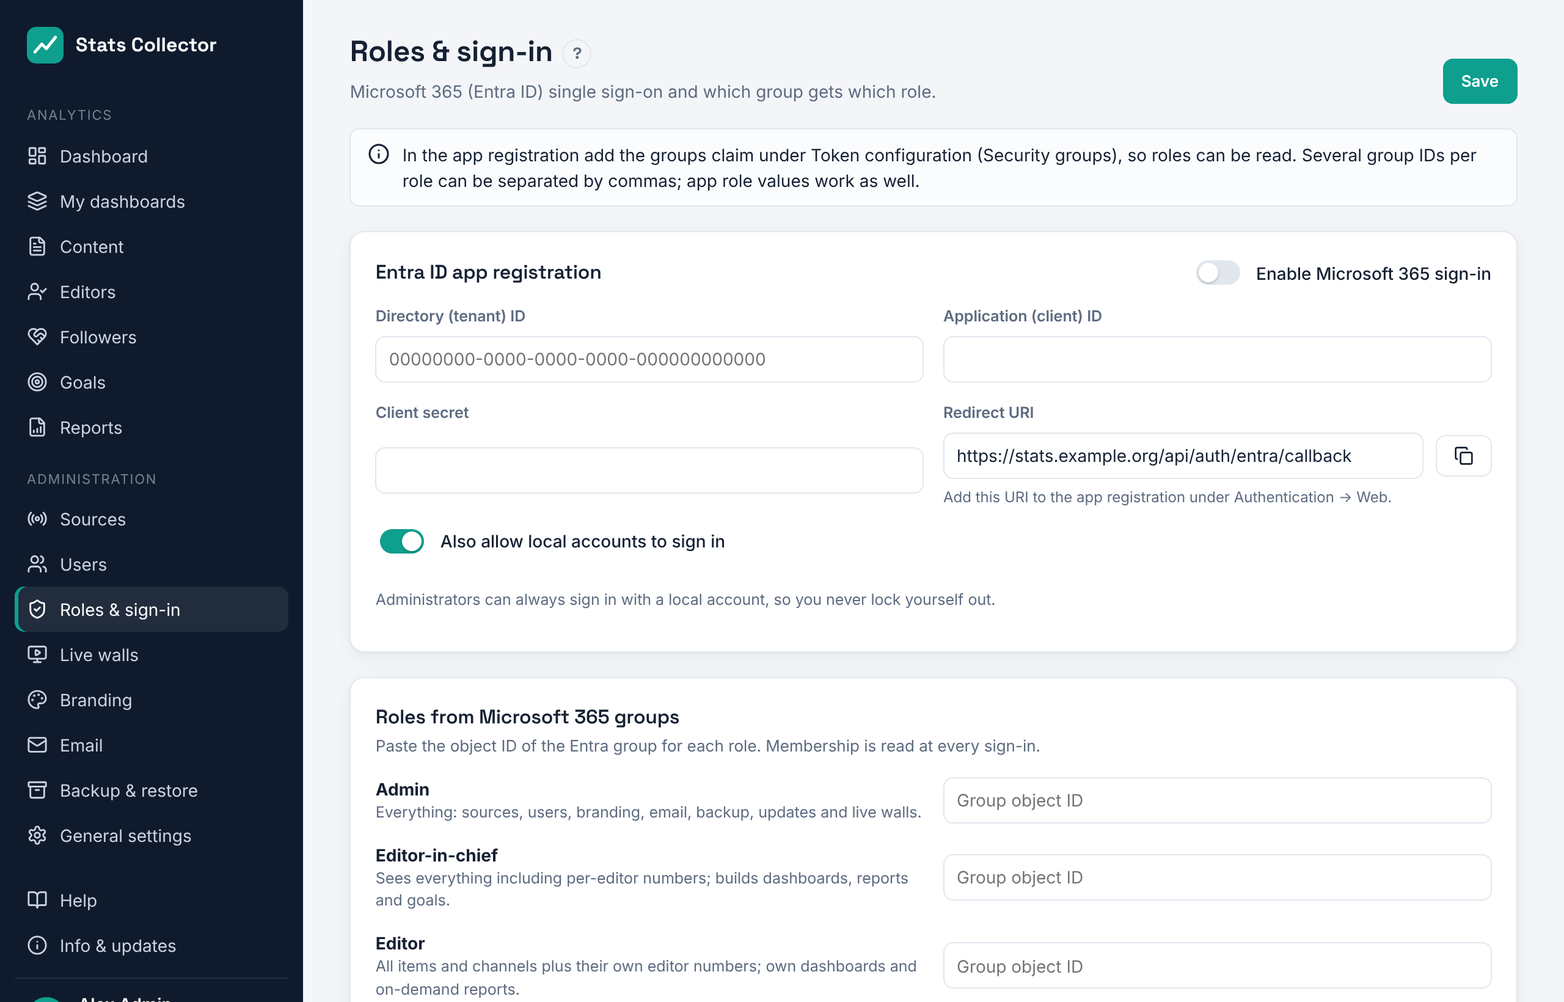
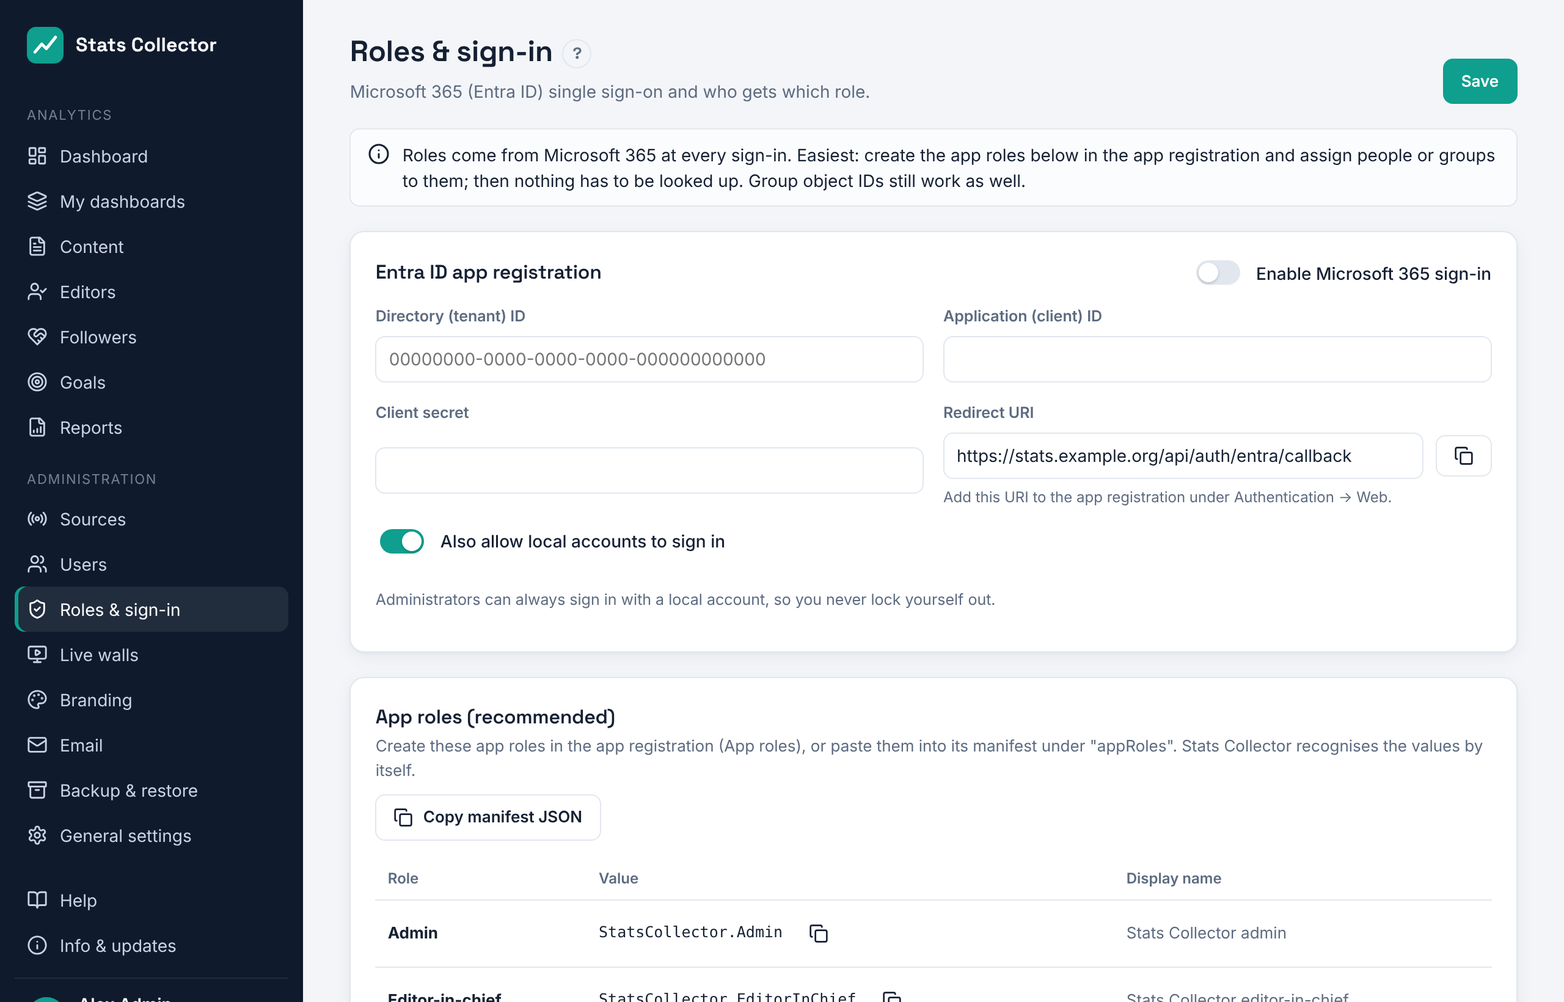
Roles & sign-in: Microsoft 365 roles through app roles [test-release] (#24)
* Manual: keep only the newest test version on GitHub Pages

Every test release added a full copy of the manual with all screenshots
(135 MB in total), and the Pages deploy began to time out. Older test
versions are now removed after each test release, and Help in a test
build opens the shared 'test' manual.

Claude-Session: https://claude.ai/code/session_01CnJtxGQE4H4TT3kRd5mhnL

* Manual: say how the online test manual is kept

Claude-Session: https://claude.ai/code/session_01CnJtxGQE4H4TT3kRd5mhnL

* Phase 4: reports, PDF, schedules and Graph mail

- Report builder from blocks (totals, charts, top content, editors,
  goals, text), runs frozen per period with an expiring public link
- PDF from the same page through Playwright and the system Chromium
- Daily, weekly and monthly schedules with users and email recipients
- Mail through Microsoft Graph with SMTP as fallback
- Archive of every run; manual EN/NL with screenshots

Claude-Session: https://claude.ai/code/session_01CnJtxGQE4H4TT3kRd5mhnL

* Roles & sign-in: Microsoft 365 roles through app roles

Fixed app role values (StatsCollector.Admin, .EditorInChief, .Editor,
.Staff) are recognised from the roles claim without any mapping. The
page lists them with copy buttons and copies the manifest JSON. Group
object IDs keep working.

Claude-Session: https://claude.ai/code/session_01CnJtxGQE4H4TT3kRd5mhnL

* CHANGELOG: app roles

Claude-Session: https://claude.ai/code/session_01CnJtxGQE4H4TT3kRd5mhnL

---------

diff --git a/frontend/src/pages/Sso.tsx b/frontend/src/pages/Sso.tsx
@@ -9,6 +9,10 @@ import { Alert, Card, Field, PageHead, Switch, useLoad } from "../components/ui"
 interface Sso {
   enabled: boolean; tenant_id: string; client_id: string; client_secret_set: boolean; allow_local_login: boolean;
   group_roles: Record<Role, string>; default_role: Role; redirect_uri: string;
+  app_roles: AppRole[];
+}
+interface AppRole {
+  role: Role; allowedMemberTypes: string[]; description: string; displayName: string; id: string; isEnabled: boolean; value: string;
 }
 const ROLES: Role[] = ["admin", "editor_in_chief", "editor", "staff"];
 
@@ -25,10 +29,16 @@ export default function SsoPage() {
     e.preventDefault();
     try {
       const r = await api.put<Sso>("/api/settings/sso", { ...cfg, client_secret: secret || undefined });
-      setCfg({ ...r, redirect_uri: cfg.redirect_uri }); setSecret("");
+      setCfg({ ...r, redirect_uri: cfg.redirect_uri, app_roles: cfg.app_roles }); setSecret("");
       toast("success", t("common.saved"));
     } catch (err) { toast("error", errorText(err instanceof ApiError ? err.detail : String(err))); }
   };
+
+  const copy = (text: string) => {
+    navigator.clipboard?.writeText(text).then(() => toast("success", t("common.copied")), () => undefined);
+  };
+  // The manifest's appRoles entries, without our own role key.
+  const manifest = JSON.stringify(cfg.app_roles.map(({ role: _role, ...rest }) => rest), null, 2);
 
   return (
     <form className="page" onSubmit={save}>
@@ -51,6 +61,31 @@ export default function SsoPage() {
           </div>
           <Switch checked={cfg.allow_local_login} onChange={(v) => setCfg({ ...cfg, allow_local_login: v })} label={t("sso.allowLocal")} />
           <p className="muted small">{t("sso.breakGlass")}</p>
+        </div>
+      </Card>
+      <Card title={t("sso.appRoles")} subtitle={t("sso.appRolesIntro")}
+        actions={<button type="button" className="btn secondary" onClick={() => copy(manifest)}><Copy /> {t("sso.copyManifest")}</button>}>
+        <div className="stack">
+          <div className="table-wrap">
+            <table>
+              <thead><tr><th>{t("sso.role")}</th><th>{t("sso.appRoleValue")}</th><th>{t("sso.appRoleName")}</th></tr></thead>
+              <tbody>
+                {cfg.app_roles.map((a) => (
+                  <tr key={a.role}>
+                    <td><b>{t(`roles.${a.role}`)}</b></td>
+                    <td>
+                      <span className="row" style={{ flexWrap: "nowrap", gap: 6 }}>
+                        <code>{a.value}</code>
+                        <button type="button" className="btn ghost" onClick={() => copy(a.value)} aria-label={t("common.copy")}><Copy /></button>
+                      </span>
+                    </td>
+                    <td className="muted">{a.displayName}</td>
+                  </tr>
+                ))}
+              </tbody>
+            </table>
+          </div>
+          <p className="muted small">{t("sso.appRolesAssign")}</p>
         </div>
       </Card>
       <Card title={t("sso.groups")} subtitle={t("sso.groupsIntro")}>

diff --git a/backend/stats_collector/services/entra.py b/backend/stats_collector/services/entra.py
@@ -1,9 +1,11 @@
 """Sign-in with Microsoft 365 (Entra ID) via OpenID Connect: authorization code flow with PKCE.
 
-Roles come from Microsoft 365: Settings → Microsoft 365 maps Entra group object IDs (or app role
-values) to the app roles; membership is read at every sign-in, so changing a group in Microsoft
-365 changes the role. When a user is in more than ~200 groups Entra leaves the `groups` claim out
-("group overage"); the groups are then read from Microsoft Graph with the user's token.
+Roles come from Microsoft 365, read at every sign-in. The simplest way is app roles: the app
+registration defines the roles in APP_ROLES (fixed values, so nothing has to be looked up) and
+users or groups are assigned to them; Entra puts the values in the `roles` claim. Entra group
+object IDs (or other app role values) can also be mapped per role under Roles & sign-in.
+When a user is in more than ~200 groups Entra leaves the `groups` claim out ("group overage");
+the groups are then read from Microsoft Graph with the user's token.
 """
 
 from __future__ import annotations
@@ -13,6 +15,7 @@ import hashlib
 import re
 import secrets
 import time
+import uuid
 from typing import Any
 
 import httpx
@@ -24,6 +27,36 @@ SCOPES = "openid profile email User.Read"
 LOGIN_HOST = "https://login.microsoftonline.com"
 GRAPH = "https://graph.microsoft.com/v1.0"
 _GUID = re.compile(r"^[0-9a-f]{8}-[0-9a-f]{4}-[0-9a-f]{4}-[0-9a-f]{4}-[0-9a-f]{12}$", re.I)
+
+# The app roles to create in the app registration. The values are what Entra sends in the `roles`
+# claim; the ids are fixed so that pasting the manifest twice does not create duplicates.
+APP_ROLES = {
+    "admin": ("StatsCollector.Admin", "Stats Collector admin", "Everything, including settings and users."),
+    "editor_in_chief": (
+        "StatsCollector.EditorInChief",
+        "Stats Collector editor-in-chief",
+        "All numbers including per editor; dashboards, reports and goals.",
+    ),
+    "editor": ("StatsCollector.Editor", "Stats Collector editor", "All numbers plus their own editor numbers."),
+    "staff": ("StatsCollector.Staff", "Stats Collector staff", "Views numbers without editor names."),
+}
+
+
+def app_roles() -> list[dict]:
+    """The app roles in the shape of the app registration manifest (`appRoles`), plus our role key."""
+    return [
+        {
+            "role": role,
+            "allowedMemberTypes": ["User"],
+            "description": description,
+            "displayName": name,
+            "id": str(uuid.uuid5(uuid.NAMESPACE_URL, f"https://stats-collector/app-role/{role}")),
+            "isEnabled": True,
+            "value": value,
+        }
+        for role, (value, name, description) in APP_ROLES.items()
+    ]
+
 
 _discovery_cache: dict[str, tuple[float, dict]] = {}
 _jwks_clients: dict[str, jwt.PyJWKClient] = {}
@@ -160,11 +193,15 @@ def group_ids(claims: dict, access_token: str | None) -> list[str]:
 
 
 def resolve_role(cfg: dict, groups: list[str], app_roles: list[str]) -> str:
-    """Highest mapped role wins (Admin > Editor-in-chief > Editor > Staff); otherwise the default role."""
+    """Highest role wins (Admin > Editor-in-chief > Editor > Staff); otherwise the default role.
+
+    A role is matched by its fixed app role value (APP_ROLES) or by a group ID or value mapped to it.
+    """
     have = {g.lower() for g in groups} | {r.lower() for r in app_roles}
     mapping: dict[str, Any] = cfg.get("group_roles") or {}
     for role in ROLES:
         wanted = [w.strip().lower() for w in re.split(r"[,\s;]+", str(mapping.get(role) or "")) if w.strip()]
+        wanted.append(APP_ROLES[role][0].lower())
         if any(w in have for w in wanted):
             return role
     default = cfg.get("default_role") or "staff"

diff --git a/backend/tests/test_entra.py b/backend/tests/test_entra.py
@@ -129,6 +129,12 @@ def test_resolve_role():
     assert entra.resolve_role(cfg, ["E", "B"], []) == "admin"
     assert entra.resolve_role(cfg, [], ["E"]) == "editor"
     assert entra.resolve_role(cfg, ["x"], []) == "staff"
+    # The fixed app role values work without any mapping; the highest one wins.
+    assert entra.resolve_role({}, [], ["StatsCollector.Editor"]) == "editor"
+    assert entra.resolve_role({}, [], ["statscollector.editor", "StatsCollector.EditorInChief"]) == "editor_in_chief"
+    assert entra.resolve_role(cfg, ["E"], ["StatsCollector.Admin"]) == "admin"
+    roles = entra.app_roles()
+    assert [r["value"] for r in roles][0] == "StatsCollector.Admin" and len({r["id"] for r in roles}) == 4
 
 
 def test_proxy_headers():

diff --git a/backend/stats_collector/api/settings.py b/backend/stats_collector/api/settings.py
@@ -15,7 +15,7 @@ from ..config import get_settings
 from ..db import get_db
 from ..models import User
 from ..security import current_user, encrypt_secret, require_admin
-from ..services import mail, settings_store
+from ..services import entra, mail, settings_store
 from .common import audit
 
 router = APIRouter(prefix="/api/settings", tags=["settings"])
@@ -136,6 +136,7 @@ class SsoIn(BaseModel):
 def get_sso(db: Session = Depends(get_db), _=Depends(require_admin)) -> dict:
     value = settings_store.public_view("sso", settings_store.get_section(db, "sso"))
     value["redirect_uri"] = get_settings().public_url.rstrip("/") + "/api/auth/entra/callback"
+    value["app_roles"] = entra.app_roles()
     return value
 
 

diff --git a/docs/manual/nl/microsoft-365.md b/docs/manual/nl/microsoft-365.md
@@ -1,6 +1,6 @@
 # Microsoft 365 (Entra ID)
 
-Collega's loggen in met hun Microsoft 365-account (knop **Inloggen met Microsoft 365** op de inlogpagina) en krijgen hun rol uit een Microsoft 365-groep. Je stelt dit in onder **Beheer → Rollen & inloggen**.
+Collega's loggen in met hun Microsoft 365-account (knop **Inloggen met Microsoft 365** op de inlogpagina) en krijgen hun rol uit Microsoft 365: uit een app-rol (het makkelijkst) of uit een groep. Je stelt dit in onder **Beheer → Rollen & inloggen**.
 
 ![Rollen & inloggen](../images/nl-sso.png)
 
@@ -11,27 +11,38 @@ Collega's loggen in met hun Microsoft 365-account (knop **Inloggen met Microsoft
 3. Omleidings-URI: platform **Web**, waarde: kopieer die uit **Rollen & inloggen → Omleidings-URI** in Stats Collector (zoiets als `https://stats.example.org/api/auth/entra/callback`).
 4. Klik op **Registreren**. Kopieer de **Applicatie-ID (client)** en **Directory-ID (tenant)** naar Stats Collector.
 5. **Certificaten en geheimen → Nieuw clientgeheim**, 24 maanden geldig. Kopieer de *Waarde* (niet de ID) naar **Clientgeheim**. Zet een herinnering in je agenda om het op tijd te vernieuwen.
-6. **Tokenconfiguratie → Groepsclaim toevoegen → Beveiligingsgroepen**, voor het *ID*-token, formaat *Groeps-ID*.
+6. Alleen als je groepen gebruikt in plaats van app-rollen (zie 2b): **Tokenconfiguratie → Groepsclaim toevoegen → Beveiligingsgroepen**, voor het *ID*-token, formaat *Groeps-ID*.
 7. **API-machtigingen**: `openid`, `profile`, `email` en `User.Read` (gedelegeerd) zijn genoeg. Klik op **Beheerderstoestemming verlenen**.
 
-## 2. Groepen voor rollen
+## 2. Rollen
 
-Maak vier beveiligingsgroepen in Microsoft 365 (de namen zijn een voorbeeld):
+### 2a. App-rollen (aanbevolen)
 
-| Rol | Groep |
-| --- | --- |
-| Beheerder | `SC-Admins` |
-| Hoofdredacteur | `SC-EditorsInChief` |
-| Redacteur | `SC-Editors` |
-| Medewerker | alle anderen in de organisatie (geen groep nodig) |
+Met app-rollen hoef je nooit een object-ID op te zoeken. Stats Collector kent deze waarden zelf:
 
-Kopieer de **Object-ID** van elke groep naar **Rollen & inloggen → Rollen uit Microsoft 365-groepen**. Meerdere ID's per rol scheid je met komma's, en de waarde van een *app-rol* (App-registratie → App-rollen) werkt ook. Het lidmaatschap wordt bij elke keer inloggen gelezen: iemand toevoegen of verwijderen in Microsoft 365 verandert de rol bij de volgende keer inloggen. Zit iemand in meerdere groepen, dan geldt de hoogste rol (Beheerder, dan Hoofdredacteur, Redacteur, Medewerker); wie in geen van de groepen zit, krijgt de rol bij **Rol voor alle anderen in de organisatie**.
+| Rol | Waarde | Weergavenaam |
+| --- | --- | --- |
+| Beheerder | `StatsCollector.Admin` | Stats Collector admin |
+| Hoofdredacteur | `StatsCollector.EditorInChief` | Stats Collector editor-in-chief |
+| Redacteur | `StatsCollector.Editor` | Stats Collector editor |
+| Medewerker | `StatsCollector.Staff` | Stats Collector staff |
 
-Is iemand lid van meer dan ongeveer 200 groepen, dan laat Microsoft de groepen weg uit het inlogtoken. Stats Collector leest ze dan uit Microsoft Graph; voeg daarvoor de gedelegeerde machtiging `GroupMember.Read.All` toe met beheerderstoestemming.
+1. Open in de app-registratie **App-rollen → App-rol maken** en maak de vier rollen: toegestane lidtypen **Gebruikers/groepen**, weergavenaam en waarde uit de tabel, een beschrijving naar keuze, **Inschakelen** aan. De tabel staat ook op **Rollen & inloggen**, met een kopieerknop naast elke waarde.
+   *Sneller:* klik op **Rollen & inloggen** op **Manifest-JSON kopiëren**, open **Manifest** in de app-registratie en plak de gekopieerde regels tussen de blokhaken van `"appRoles": [ ]`. Klik op **Opslaan**.
+2. Open **Bedrijfstoepassingen → Stats Collector → Gebruikers en groepen → Gebruiker/groep toevoegen**, kies mensen of een groep en de rol. Een groep toewijzen kan vanaf Entra ID P1; op andere abonnementen wijs je mensen toe.
+3. Optioneel: zet onder **Bedrijfstoepassingen → Stats Collector → Eigenschappen** **Toewijzing vereist** op *Ja*, zodat alleen mensen met een rol kunnen inloggen.
+
+Entra zet de rol in het inlogtoken, dus er is geen extra machtiging of tokeninstelling nodig. De rol wordt bij elke keer inloggen gelezen: verander je iemands toewijzing, dan verandert de rol bij de volgende keer inloggen. Wie meerdere rollen heeft krijgt de hoogste (Beheerder, dan Hoofdredacteur, Redacteur, Medewerker); wie geen rol heeft krijgt de rol bij **Rol voor alle anderen in de organisatie**.
+
+### 2b. Groepen (alternatief)
+
+Werk je liever met bestaande beveiligingsgroepen? Plak de **Object-ID** van elke groep (Entra → Groepen → de groep → Overzicht) bij **Rollen & inloggen → Rollen uit Microsoft 365-groepen**; meerdere ID's per rol scheid je met komma's. Hiervoor is de groepsclaim uit stap 6 van deel 1 nodig. Groepen en app-rollen kun je combineren; de hoogste rol geldt.
+
+Is iemand lid van meer dan ongeveer 200 groepen, dan laat Microsoft de groepen weg uit het inlogtoken. Stats Collector leest ze dan uit Microsoft Graph; voeg daarvoor de gedelegeerde machtiging `GroupMember.Read.All` toe met beheerderstoestemming. App-rollen hebben deze grens niet.
 
 ## 3. Aanzetten en testen
 
-1. Vul de tenant-ID, client-ID en het clientgeheim in, koppel de groepen en zet **Inloggen met Microsoft 365 aanzetten** aan. Klik op **Opslaan**.
+1. Vul de tenant-ID, client-ID en het clientgeheim in (en de groeps-ID's als je groepen gebruikt), en zet **Inloggen met Microsoft 365 aanzetten** aan. Klik op **Opslaan**.
 2. Open de inlogpagina in een privévenster en klik op **Inloggen met Microsoft 365**.
 3. Na het inloggen kom je op het dashboard; je rol staat onderaan het menu. Onder **Gebruikers** staat het account met inlogmethode *Microsoft 365*.
 

diff --git a/docs/manual/en/microsoft-365.md b/docs/manual/en/microsoft-365.md
@@ -1,6 +1,6 @@
 # Microsoft 365 (Entra ID)
 
-Colleagues sign in with their Microsoft 365 account (button **Sign in with Microsoft 365** on the sign-in page) and get their role from a Microsoft 365 group. Set it up under **Administration → Roles & sign-in**.
+Colleagues sign in with their Microsoft 365 account (button **Sign in with Microsoft 365** on the sign-in page) and get their role from Microsoft 365: from an app role (easiest) or from a group. Set it up under **Administration → Roles & sign-in**.
 
 ![Roles & sign-in](../images/en-sso.png)
 
@@ -11,27 +11,38 @@ Colleagues sign in with their Microsoft 365 account (button **Sign in with Micro
 3. Redirect URI: platform **Web**, value: copy it from **Roles & sign-in → Redirect URI** in Stats Collector (it looks like `https://stats.example.org/api/auth/entra/callback`).
 4. Click **Register**. Copy the **Application (client) ID** and **Directory (tenant) ID** into Stats Collector.
 5. **Certificates & secrets → New client secret**, valid for 24 months. Copy the *Value* (not the ID) into **Client secret**. Put a reminder in your calendar to renew it.
-6. **Token configuration → Add groups claim → Security groups**, for the *ID* token, format *Group ID*.
+6. Only if you use groups instead of app roles (see 2b): **Token configuration → Add groups claim → Security groups**, for the *ID* token, format *Group ID*.
 7. **API permissions**: `openid`, `profile`, `email` and `User.Read` (delegated) are enough. Click **Grant admin consent**.
 
-## 2. Groups for roles
+## 2. Roles
 
-Create four security groups in Microsoft 365 (names are an example):
+### 2a. App roles (recommended)
 
-| Role | Group |
-| --- | --- |
-| Admin | `SC-Admins` |
-| Editor-in-chief | `SC-EditorsInChief` |
-| Editor | `SC-Editors` |
-| Staff | everyone else in the organisation (no group needed) |
+With app roles you never have to look up an object ID. Stats Collector knows these values by itself:
 
-Copy each group's **Object ID** into **Roles & sign-in → Roles from Microsoft 365 groups**. Several IDs per role can be separated by commas, and the value of an *app role* (App registration → App roles) works too. Membership is read at every sign-in, so adding or removing someone in Microsoft 365 changes their role the next time they sign in. When someone is in several groups, the highest role wins (Admin, then Editor-in-chief, Editor, Staff); someone in none of the groups gets the role under **Role for everyone else in the organisation**.
+| Role | Value | Display name |
+| --- | --- | --- |
+| Admin | `StatsCollector.Admin` | Stats Collector admin |
+| Editor-in-chief | `StatsCollector.EditorInChief` | Stats Collector editor-in-chief |
+| Editor | `StatsCollector.Editor` | Stats Collector editor |
+| Staff | `StatsCollector.Staff` | Stats Collector staff |
 
-When a person is a member of more than about 200 groups, Microsoft leaves the groups out of the sign-in token. Stats Collector then reads them from Microsoft Graph; for that add the delegated permission `GroupMember.Read.All` with admin consent.
+1. In the app registration open **App roles → Create app role** and create the four roles: allowed member types **Users/Groups**, display name and value from the table, any description, **Enable** on. The table is also on **Roles & sign-in**, with a copy button next to each value.
+   *Faster:* click **Copy manifest JSON** on **Roles & sign-in**, open **Manifest** in the app registration and paste the copied entries between the square brackets of `"appRoles": [ ]`. Click **Save**.
+2. Open **Enterprise applications → Stats Collector → Users and groups → Add user/group**, pick people or a group and the role. Assigning a group needs Entra ID P1 or higher; on other plans assign people.
+3. Optional: under **Enterprise applications → Stats Collector → Properties** set **Assignment required** to *Yes*, so only people with a role can sign in.
+
+Entra puts the role in the sign-in token, so no extra permission or token setting is needed. The role is read at every sign-in: changing someone's assignment changes their role the next time they sign in. Someone with several roles gets the highest (Admin, then Editor-in-chief, Editor, Staff); someone without a role gets the role under **Role for everyone else in the organisation**.
+
+### 2b. Groups (alternative)
+
+Prefer to work with security groups you already have? Paste each group's **Object ID** (Entra → Groups → the group → Overview) into **Roles & sign-in → Roles from Microsoft 365 groups**; separate several IDs per role with commas. This needs the groups claim from step 6 of part 1. Groups and app roles can be combined; the highest role wins.
+
+When a person is a member of more than about 200 groups, Microsoft leaves the groups out of the sign-in token. Stats Collector then reads them from Microsoft Graph; for that add the delegated permission `GroupMember.Read.All` with admin consent. App roles do not have this limit.
 
 ## 3. Switch it on and test
 
-1. Fill in the tenant ID, client ID and client secret, map the groups and switch on **Enable Microsoft 365 sign-in**. Click **Save**.
+1. Fill in the tenant ID, client ID and client secret (and the group IDs if you use groups), and switch on **Enable Microsoft 365 sign-in**. Click **Save**.
 2. Open the sign-in page in a private browser window and click **Sign in with Microsoft 365**.
 3. After signing in you land on the dashboard; your role is shown at the bottom of the menu. **Users** lists the account with sign-in method *Microsoft 365*.
 

diff --git a/CHANGELOG.md b/CHANGELOG.md
@@ -7,6 +7,8 @@ Each entry is written in English with a Dutch translation on the line below, pre
 ## [Unreleased]
 
 ### Added
+- Roles & sign-in: Microsoft 365 roles through app roles with fixed values (`StatsCollector.Admin`, `StatsCollector.EditorInChief`, `StatsCollector.Editor`, `StatsCollector.Staff`), recognised without looking up object IDs; the page lists them with copy buttons and copies them as manifest JSON. Group object IDs keep working.
+  NL: Rollen & inloggen: rollen uit Microsoft 365 via app-rollen met vaste waarden (`StatsCollector.Admin`, `StatsCollector.EditorInChief`, `StatsCollector.Editor`, `StatsCollector.Staff`), die herkend worden zonder object-ID's op te zoeken; de pagina toont ze met kopieerknoppen en kopieert ze als manifest-JSON. Object-ID's van groepen blijven werken.
 - Reports: build a report from blocks (totals, charts, top content, editors ranking, goals and text), generate it for a fixed period, and share it as an interactive page behind a link that expires, or as a PDF made from the same page; reports go out daily, weekly or monthly to users and email addresses, and every run is kept in the archive.
   NL: Rapporten: stel een rapport samen uit blokken (totalen, grafieken, topcontent, ranglijst redacteuren, doelen en tekst), maak het voor een vaste periode en deel het als interactieve pagina achter een link die verloopt, of als PDF van dezelfde pagina; rapporten gaan dagelijks, wekelijks of maandelijks naar gebruikers en e-mailadressen, en elke uitvoering blijft bewaard in het archief.
 - Email through Microsoft 365 with the Graph API (app registration with Mail.Send), with the SMTP server as fallback.

diff --git a/docs/manual/nl/users-and-roles.md b/docs/manual/nl/users-and-roles.md
@@ -31,4 +31,4 @@ Namen van redacteuren en cijfers per redacteur worden op de server verwijderd vo
 
 ## Microsoft 365
 
-Vanaf fase 1 kunnen collega's inloggen met hun Microsoft 365-account en krijgen ze hun rol uit een Microsoft 365-groep. De instellingen kun je nu al voorbereiden: zie [Microsoft 365](microsoft-365.md).
+Collega's kunnen inloggen met hun Microsoft 365-account en krijgen hun rol uit een app-rol of groep in Microsoft 365: zie [Microsoft 365](microsoft-365.md).

diff --git a/docs/manual/en/users-and-roles.md b/docs/manual/en/users-and-roles.md
@@ -31,4 +31,4 @@ Editor names and per-editor numbers are removed on the server before data reache
 
 ## Microsoft 365
 
-From phase 1 colleagues can sign in with their Microsoft 365 account and get their role from a Microsoft 365 group. The settings can already be prepared: see [Microsoft 365](microsoft-365.md).
+Colleagues can sign in with their Microsoft 365 account and get their role from an app role or group in Microsoft 365: see [Microsoft 365](microsoft-365.md).
